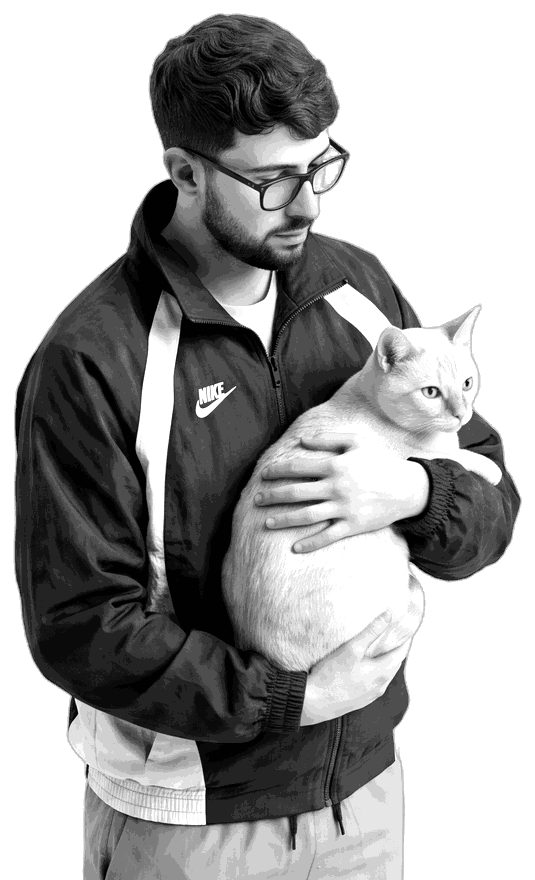
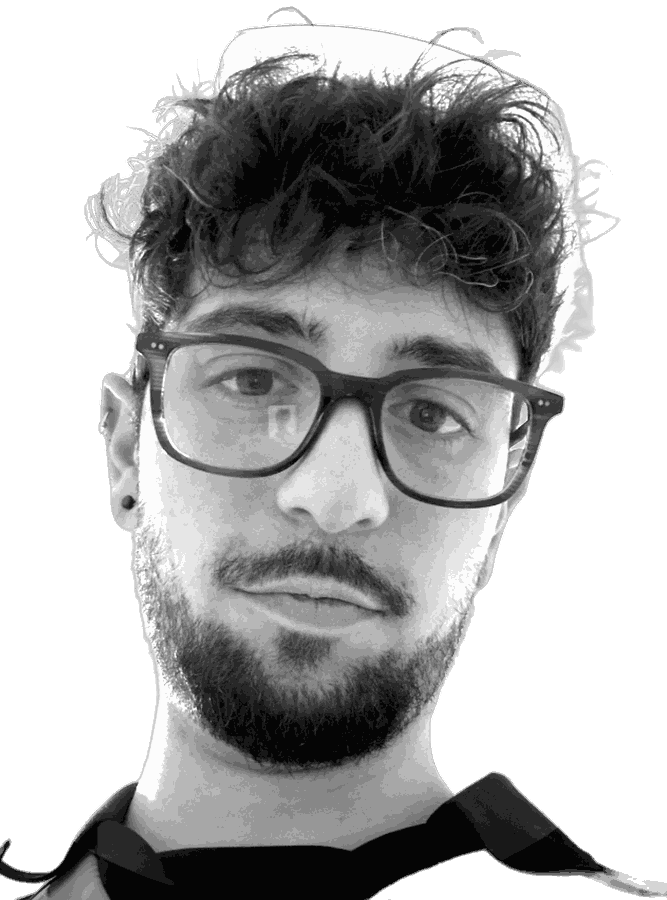
Replace hero portrait placeholder with real photo
- Background removed, grayscale with boosted contrast for the dither
- Cache-busted asset reference (?v=2)

diff --git a/hero-pixel.js b/hero-pixel.js
@@ -10,7 +10,7 @@
   const ctx = canvas.getContext('2d');
 
   const CELL = 5;              // px per dither cell
-  const IMG_SRC = 'assets/hero-portrait.png';
+  const IMG_SRC = 'assets/hero-portrait.png?v=2';
   const CLOUDS = 0.5;          // how much the noise clouds add/remove
   const MOUSE_RADIUS = 30;     // in cells
   const MOUSE_BOOST = 0.35;

diff --git a/index.html b/index.html
@@ -685,7 +685,7 @@
     });
   </script>
 <script src="dots.js?v=2"></script>
-<script src="hero-pixel.js?v=2"></script>
+<script src="hero-pixel.js?v=3"></script>
 <script src="ui.js?v=5"></script>
 <script src="i18n.js?v=5"></script>
 </body>